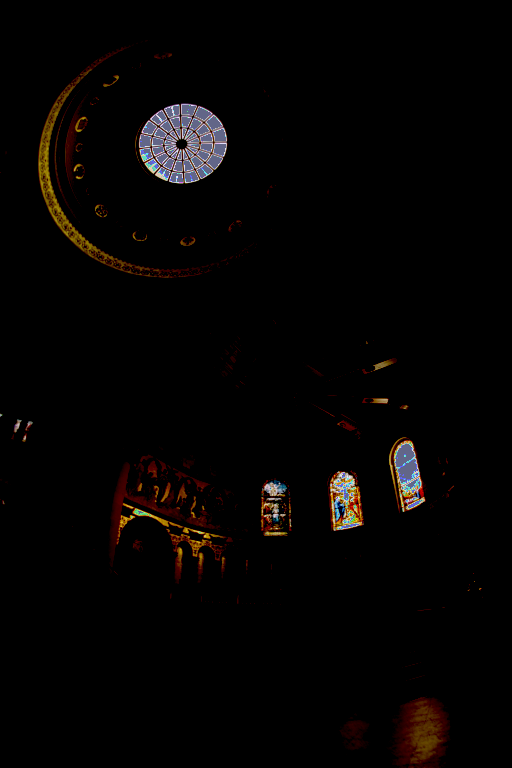
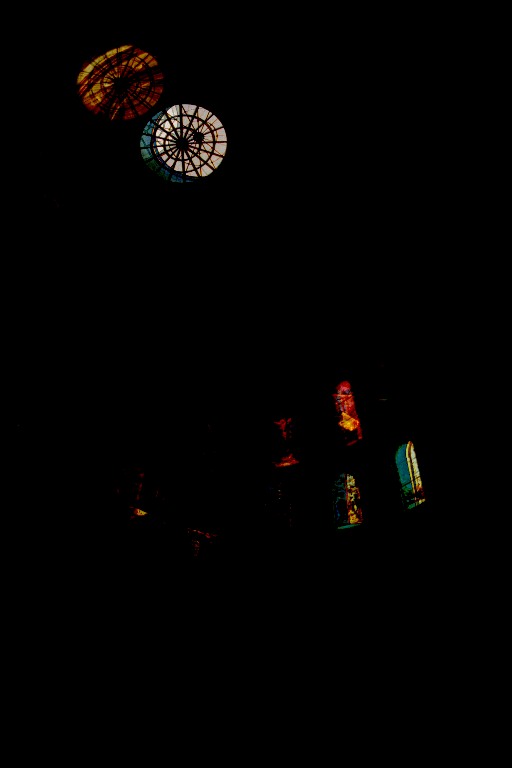
add comment and response curve output image

diff --git a/hdr.py b/hdr.py
@@ -52,7 +52,8 @@ def sampleIntensities(imgs):
 
     num_layer = len(imgs)
     num_sample = ZMAX - ZMIN + 1
-    mid_img = imgs[num_layer // 2]
+
+    mid_img = imgs[(num_layer // 2)]
     intensity = np.zeros((num_sample, num_layer), dtype=np.uint8)
 
     for i in range(ZMIN, ZMAX + 1):
@@ -67,7 +68,7 @@ def sampleIntensities(imgs):
     return intensity
     
 def gslove(img_list, sample_list, lamdba, rgb):
-    
+    # ppt page 44 / 45
     n = 256
     A = np.zeros((img_list.shape[0]*sample_list.shape[0]+n-1,n+sample_list.shape[0]), dtype = np.float64)
     B = np.zeros((A.shape[0],1), dtype = np.float64)
@@ -95,11 +96,12 @@ def gslove(img_list, sample_list, lamdba, rgb):
 
     plt.figure()
     plt.plot(g)
-    plt.savefig(out_dir+'response_curve_'+rgb+'.png')
+    plt.savefig(out_dir+'response_curve_'+str(rgb)+'.png')
     return g
 
 
 def reconstruct_radiance_map(image_list, response_curve, rgb):
+    # ppt page 47
     rad =  np.zeros((image_list.shape[1],image_list.shape[2]), dtype=np.float64)
 
     for i in range(image_list.shape[1]):
@@ -108,7 +110,6 @@ def reconstruct_radiance_map(image_list, response_curve, rgb):
             w = np.array([weight_function[image_list[x][i][j][rgb]] for x in range(image_list.shape[0])])
             w_sum = np.nansum(w)
             if w_sum >= 0:
-                # print(w.shape)
                 rad[i][j] = (np.nansum(weight_function[image_list[:,i,j,rgb]] * (response_curve[image_list[:,i,j,rgb]]-np.log(shutter_speed_list)))) / w_sum
             else:
                 rad[i][j] = g[image_list.shape[0] // 2] - math.log(shutter_speed_list[image_list.shape[0] // 2])
@@ -117,15 +118,6 @@ def reconstruct_radiance_map(image_list, response_curve, rgb):
 
 def tone_mapping(image, gamma):
     return cv2.pow(image/255., 1.0/gamma)
-
-def colorAdjustment(img, T):
-    m, n, c = img.shape
-    output = np.zeros((m, n, c))
-    for ch in range(c):
-        img_avg, T_avg = np.average(img[:, :, ch]), np.average(T[:, :, ch])
-        output[..., ch] = img[..., ch] * (T_avg / img_avg)
-
-    return output
 
 if __name__ == '__main__':
     # set args
